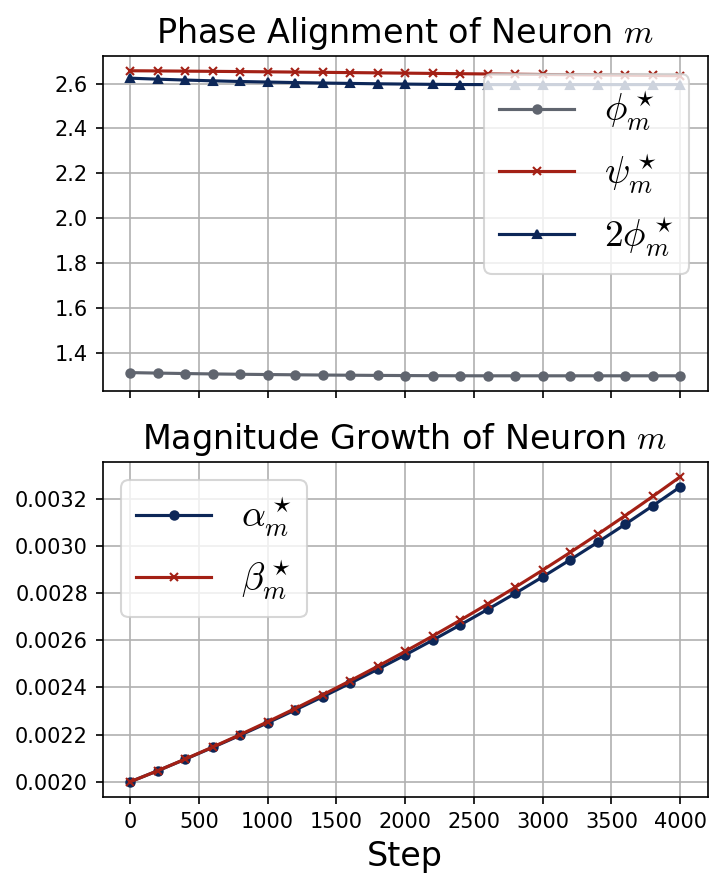
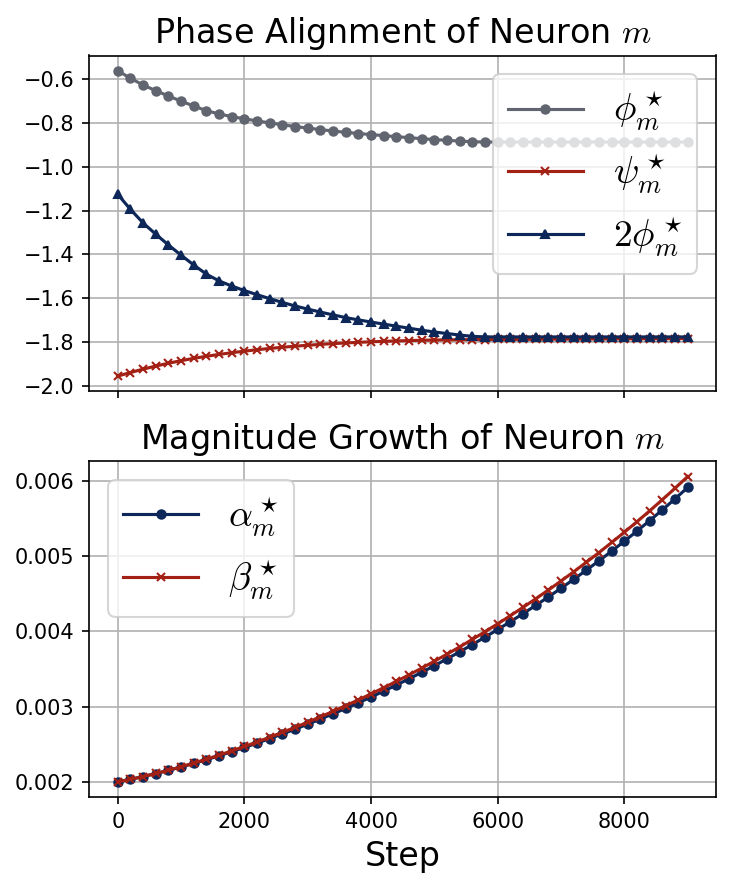
Fix Tab 7 gradient dynamics: 10K epochs, better neuron selection, fixed timepoints
- Increase single-freq training from 5K to 10K epochs to match original
  notebook models (the pipeline was only training half as long)
- Select neurons with largest initial phase misalignment (among top-25%
  by final scale) instead of the lottery winner which is already aligned
- Use fixed DFT heatmap timepoints: Quad [0, 1000, 5000], ReLU [0, 5000]
  matching the notebook figures
- Add app.load() trigger and SSR disable for HF Spaces compatibility
- Regenerate all phase alignment and DFT plots for p=15,23,29,31

diff --git a/precompute/generate_plots.py b/precompute/generate_plots.py
@@ -1603,12 +1603,36 @@ class PlotGenerator:
                         'phi_out': phi_out,
                     })
 
-            # Select a neuron that shows clear phase alignment
-            # Pick neuron with largest final scale
+            # Select a neuron that shows interesting phase convergence dynamics.
+            # The lottery winner (largest final scale) already has ψ ≈ 2φ from
+            # the start, producing flat boring plots. Instead, pick a neuron that
+            # (a) has significant final scale (top quartile → actually learned),
+            # (b) had the largest initial phase misalignment |ψ₀ - 2φ₀|.
             final_records = [r for r in all_neuron_records if r['epoch'] == epochs[-1]]
             if not final_records:
                 continue
-            best_neuron = max(final_records, key=lambda r: r['scale_in'])['neuron']
+            init_records = [r for r in all_neuron_records if r['epoch'] == epochs[0]]
+            init_by_neuron = {r['neuron']: r for r in init_records}
+
+            # Keep neurons with final scale in top 25%
+            scales = sorted([r['scale_in'] for r in final_records], reverse=True)
+            scale_threshold = scales[max(0, len(scales) // 4 - 1)] if len(scales) >= 4 else scales[-1]
+            strong_neurons = [r for r in final_records if r['scale_in'] >= scale_threshold]
+
+            # Among strong neurons, pick the one with largest initial misalignment
+            best_neuron = None
+            best_misalign = -1.0
+            for r in strong_neurons:
+                n = r['neuron']
+                if n not in init_by_neuron:
+                    continue
+                ir = init_by_neuron[n]
+                misalign = abs(normalize_to_pi(ir['phi_out'] - 2 * ir['phi_in']))
+                if misalign > best_misalign:
+                    best_misalign = misalign
+                    best_neuron = n
+            if best_neuron is None:
+                best_neuron = max(final_records, key=lambda r: r['scale_in'])['neuron']
 
             # Extract trajectory for this neuron
             neuron_records = [r for r in all_neuron_records if r['neuron'] == best_neuron]
@@ -1667,16 +1691,18 @@ class PlotGenerator:
             _save_fig(fig, self._out(f'phase_align_{prefix}.png'))
 
             # ---- Decoded weights at timepoints ----
+            # Use fixed timepoints matching the notebook figures:
+            #   Quad: steps 0, 1000, 5000   ReLU: steps 0, 5000
             if prefix == 'quad':
-                keys = [0]
-                mid = min(epochs, key=lambda e: abs(e - 1000))
-                end = epochs[-1]
-                if mid not in keys:
-                    keys.append(mid)
-                if end not in keys:
-                    keys.append(end)
+                target_keys = [0, 1000, 5000]
             else:
-                keys = [0, epochs[-1]]
+                target_keys = [0, 5000]
+            # Snap each target to the nearest available checkpoint epoch
+            keys = []
+            for t in target_keys:
+                nearest = min(epochs, key=lambda e: abs(e - t))
+                if nearest not in keys:
+                    keys.append(nearest)
 
             num_components = min(20, d_mlp)
             n = len(keys)

diff --git a/hf_app/app.py b/hf_app/app.py
@@ -340,7 +340,10 @@ def load_json_file(p, filename):
 def safe_img(p, filename):
     """Return image path or None (Gradio handles None gracefully)."""
     path = os.path.join(_prime_dir(p), f"p{p:03d}_{filename}")
-    return path if os.path.exists(path) else None
+    exists = os.path.exists(path)
+    if not exists:
+        logger.warning(f"Image not found: {path}")
+    return path if exists else None
 
 
 # ---------------------------------------------------------------------------
@@ -1255,6 +1258,13 @@ Use the slider to scrub through training epochs and watch the accuracy grid evol
             outputs=[current_p] + all_outputs,
         )
 
+        # Trigger initial load so tabs aren't empty on page load
+        app.load(
+            fn=p_change_and_store,
+            inputs=[p_dropdown],
+            outputs=[current_p] + all_outputs,
+        )
+
         # --- Neuron dropdown handler ---
         def on_neuron_change(neuron_key, p):
             data = load_json_file(p, "neuron_spectra.json")
@@ -1371,5 +1381,21 @@ Use the slider to scrub through training epochs and watch the accuracy grid evol
 
 
 if __name__ == "__main__":
+    # Startup diagnostics
+    print(f"PROJECT_ROOT: {PROJECT_ROOT}")
+    print(f"RESULTS_DIR:  {RESULTS_DIR}")
+    print(f"RESULTS_DIR exists: {os.path.exists(RESULTS_DIR)}")
+    if os.path.exists(RESULTS_DIR):
+        dirs = sorted(os.listdir(RESULTS_DIR))
+        print(f"Result dirs: {dirs}")
+        for d in dirs[:2]:
+            dpath = os.path.join(RESULTS_DIR, d)
+            files = os.listdir(dpath) if os.path.isdir(dpath) else []
+            print(f"  {d}: {len(files)} files")
+            for f in sorted(files)[:5]:
+                print(f"    {f}")
+    else:
+        print("WARNING: RESULTS_DIR does not exist!")
+
     app = create_app()
-    app.launch(theme=gr.themes.Soft(), css=CUSTOM_CSS)
+    app.launch(theme=gr.themes.Soft(), css=CUSTOM_CSS, ssr_mode=False)

diff --git a/precompute/prime_config.py b/precompute/prime_config.py
@@ -94,7 +94,7 @@ TRAINING_RUNS = {
         "lr": 0.1,
         "weight_decay": 0,
         "frac_train": 1.0,
-        "num_epochs": 5000,
+        "num_epochs": 10000,
         "save_every": 200,
         "init_scale": 0.02,
         "save_models": True,
@@ -109,7 +109,7 @@ TRAINING_RUNS = {
         "lr": 0.01,
         "weight_decay": 0,
         "frac_train": 1.0,
-        "num_epochs": 5000,
+        "num_epochs": 10000,
         "save_every": 200,
         "init_scale": 0.002,
         "save_models": True,

diff --git a/README.md b/README.md
@@ -160,8 +160,8 @@ Each modulus produces ~33 files in `precomputed_results/p_XXX/`:
 | `standard` | ReLU | AdamW | 5e-5 | 0 | 100% | 5,000 | Tabs 1–4 |
 | `grokking` | ReLU | AdamW | 1e-4 | 2.0 | 75% | 50,000 | Tabs 1, 6 |
 | `quad_random` | Quad | AdamW | 5e-5 | 0 | 100% | 5,000 | Tab 5 |
-| `quad_single_freq` | Quad | SGD | 0.1 | 0 | 100% | 5,000 | Tab 7 |
-| `relu_single_freq` | ReLU | SGD | 0.01 | 0 | 100% | 5,000 | Tab 7 |
+| `quad_single_freq` | Quad | SGD | 0.1 | 0 | 100% | 10,000 | Tab 7 |
+| `relu_single_freq` | ReLU | SGD | 0.01 | 0 | 100% | 10,000 | Tab 7 |
 
 ## Running a Single Experiment
 
